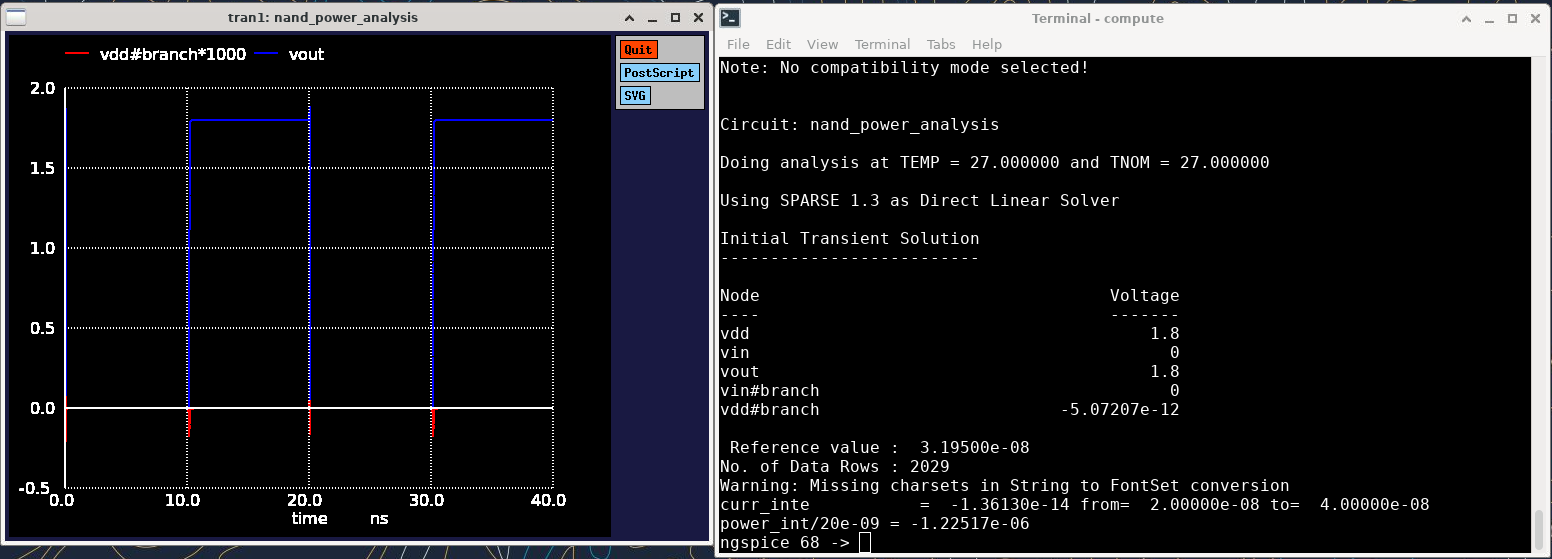
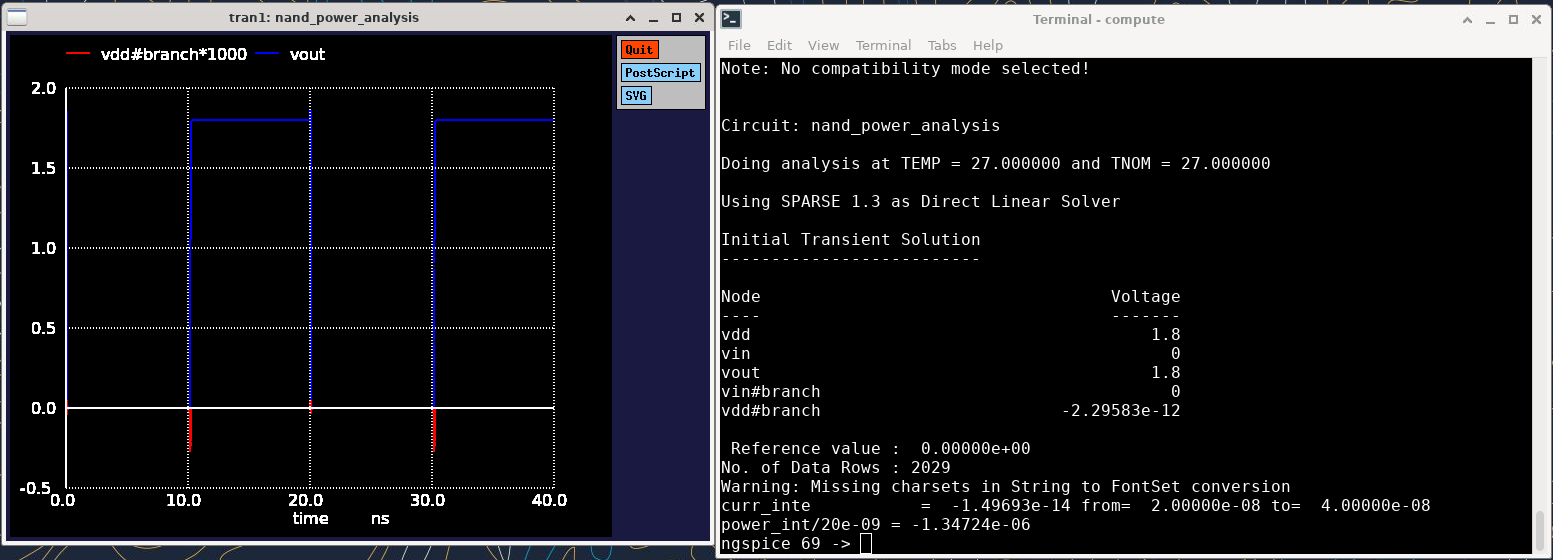
Finished capturing NAND gate results

diff --git a/2/ECE507_Lab2_Sowatzke.tex b/2/ECE507_Lab2_Sowatzke.tex
@@ -352,4 +352,40 @@
 		\caption{NAND Gate Power Analysis with Schematic Simulation}
 		\label{fig::nand_power_analysis_schem}
 	\end{figure}
+	
+	\begin{table}[H]
+	\begin{center}
+	\caption{Power Consumption from Netlist Simulation}
+	\label{table::nand_gate_power_analysis}
+	\begin{tabular}{| c | c | c |}
+		\hline
+		\texttt{a} & \texttt{b} & \texttt{Power}\\
+		\hline	
+		$0 \rightarrow 1 \rightarrow 0$ & $1$ & $1.34724{\mu}W$ \\
+		\hline	
+		$1$ & $0 \rightarrow 1 \rightarrow 0$ & $1.85866{\mu}W$ \\
+		\hline	
+		$0 \rightarrow 1 \rightarrow 0$ & $0 \rightarrow 1 \rightarrow 0$ & $1.44641{\mu}W$\\
+		\hline
+	\end{tabular}
+	\end{center}
+	\end{table}
+	
+	\begin{table}[H]
+	\begin{center}
+	\caption{Power Consumption from Schematic Simulation}
+	\label{table::nand_gate_power_analysis_schem}
+	\begin{tabular}{| c | c | c |}
+		\hline
+		\texttt{a} & \texttt{b} & \texttt{Power}\\
+		\hline	
+		$0 \rightarrow 1 \rightarrow 0$ & $1$ & $1.34880{\mu}W$ \\
+		\hline	
+		$1$ & $0 \rightarrow 1 \rightarrow 0$ & $1.88943{\mu}W$ \\
+		\hline	
+		$0 \rightarrow 1 \rightarrow 0$ & $0 \rightarrow 1 \rightarrow 0$ & $1.44446{\mu}W$\\
+		\hline
+	\end{tabular}
+	\end{center}
+	\end{table}
 \end{document}
